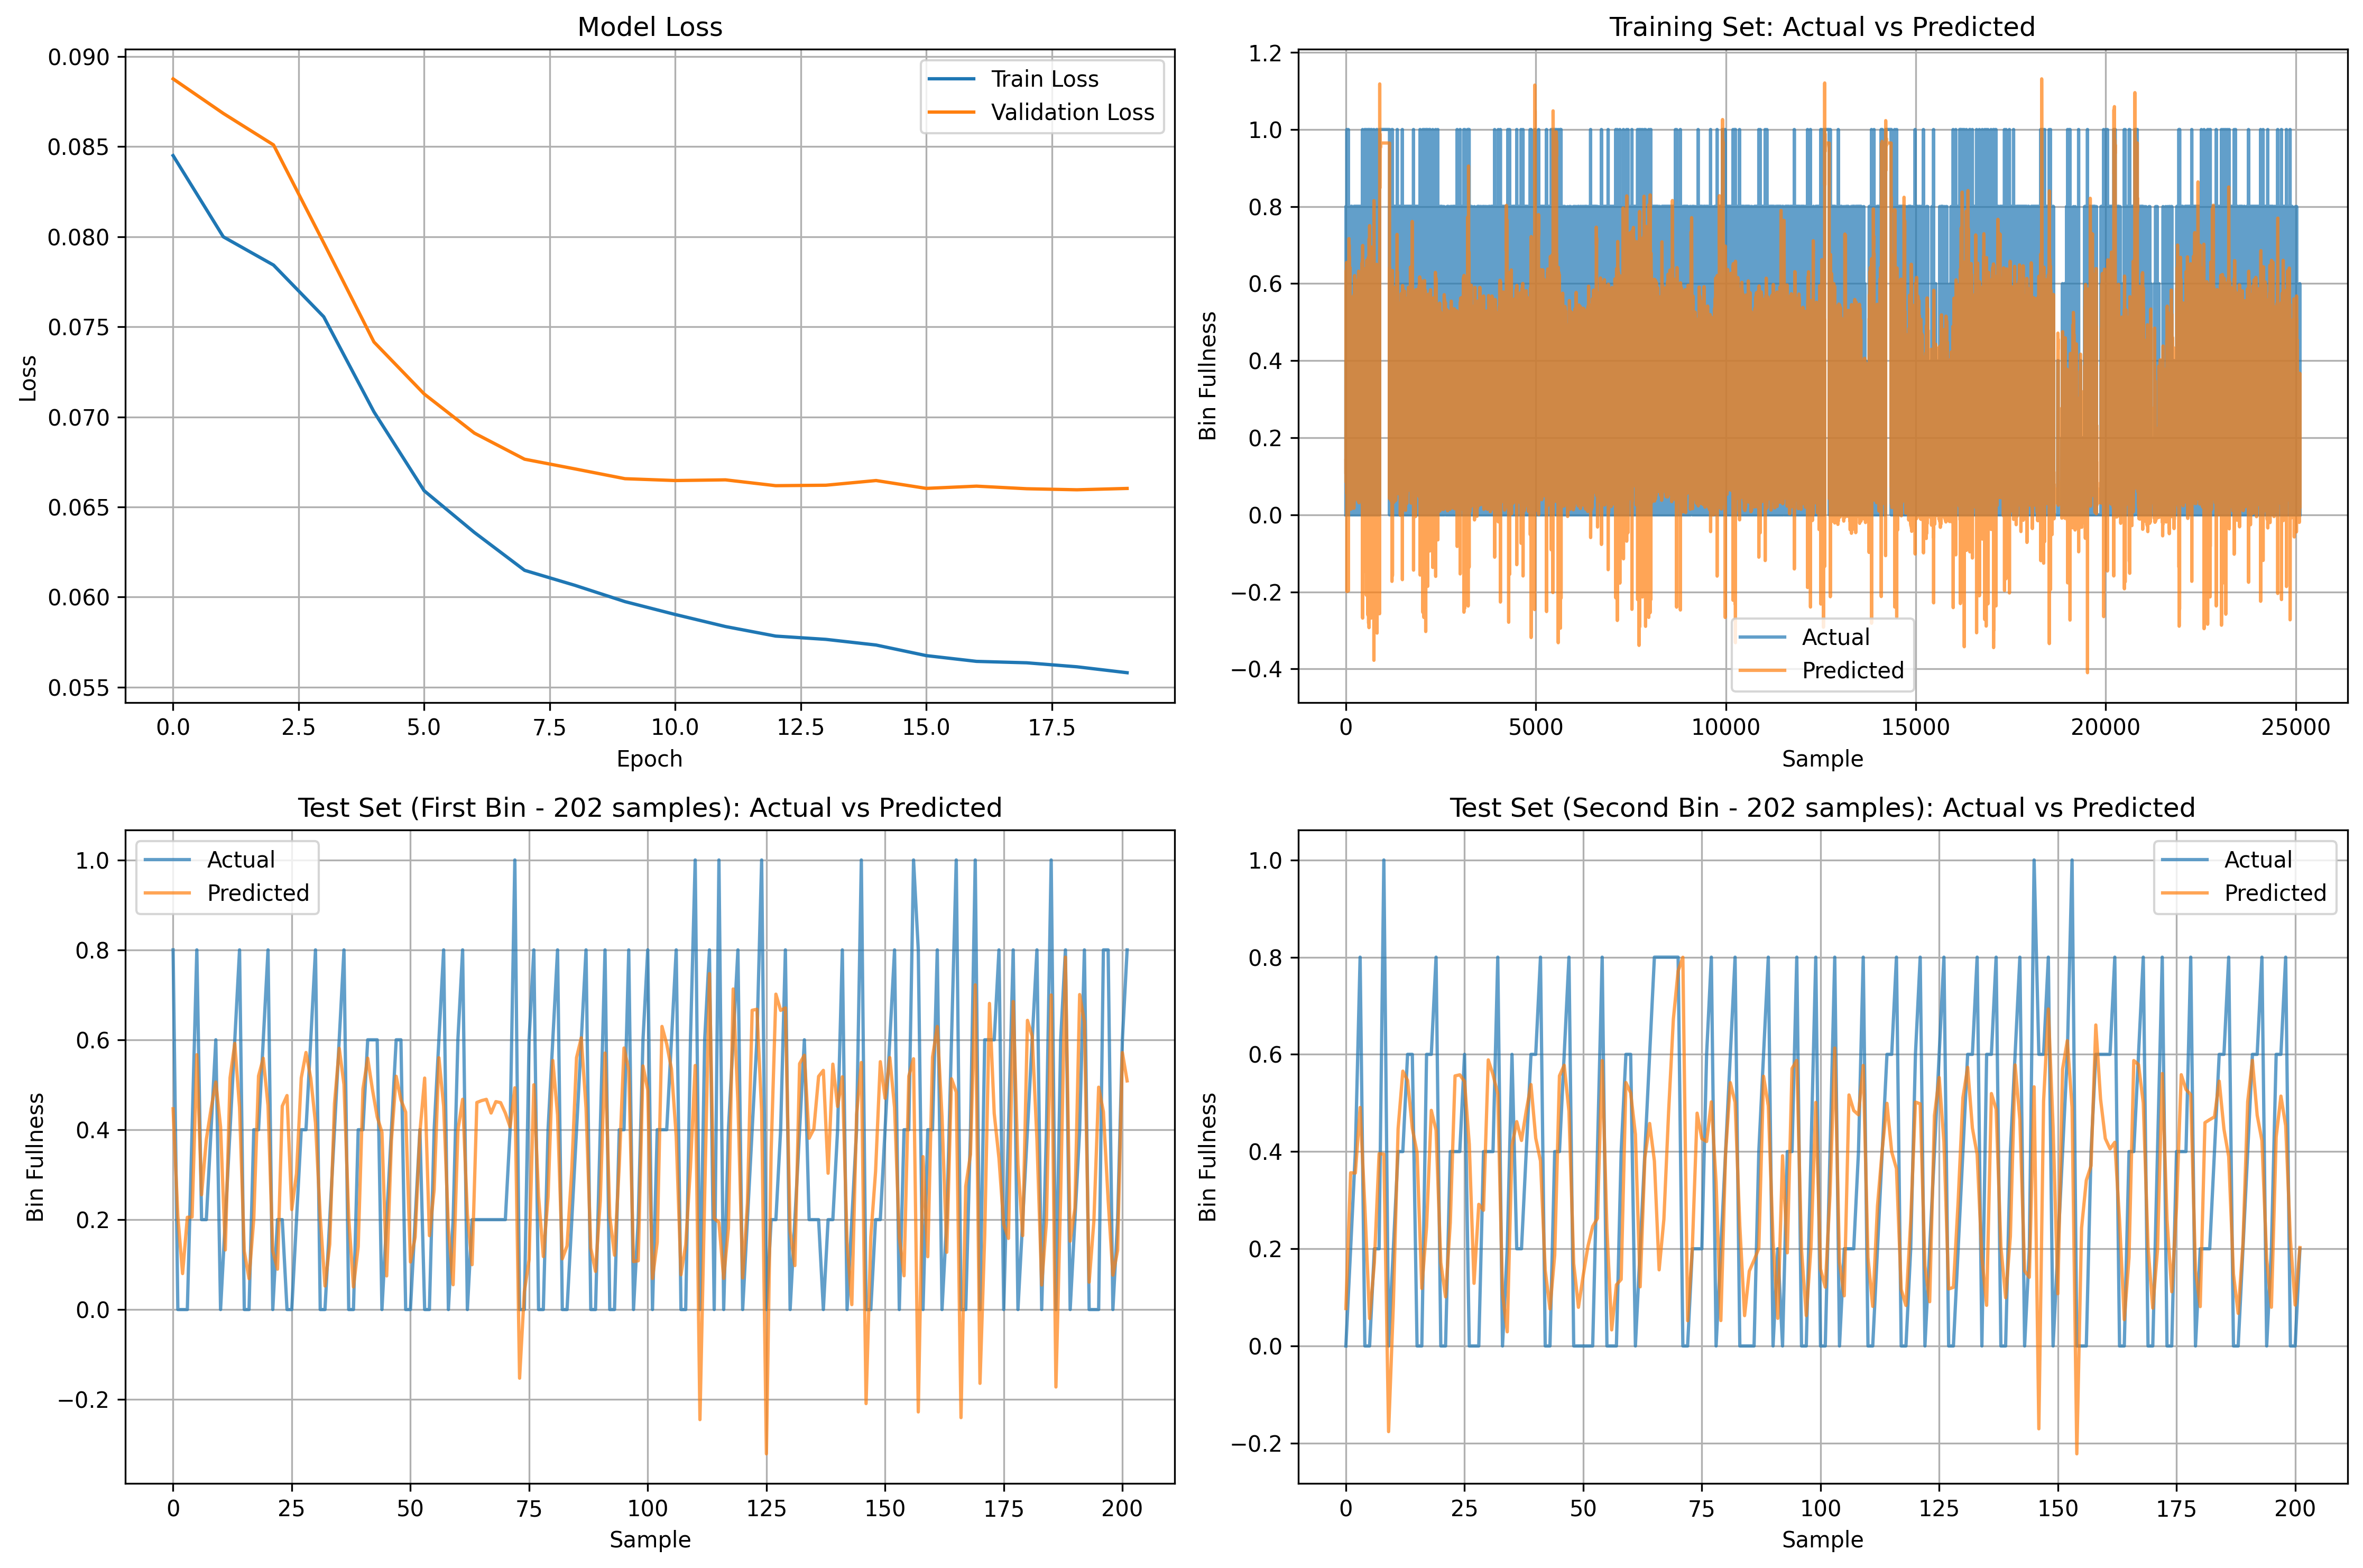
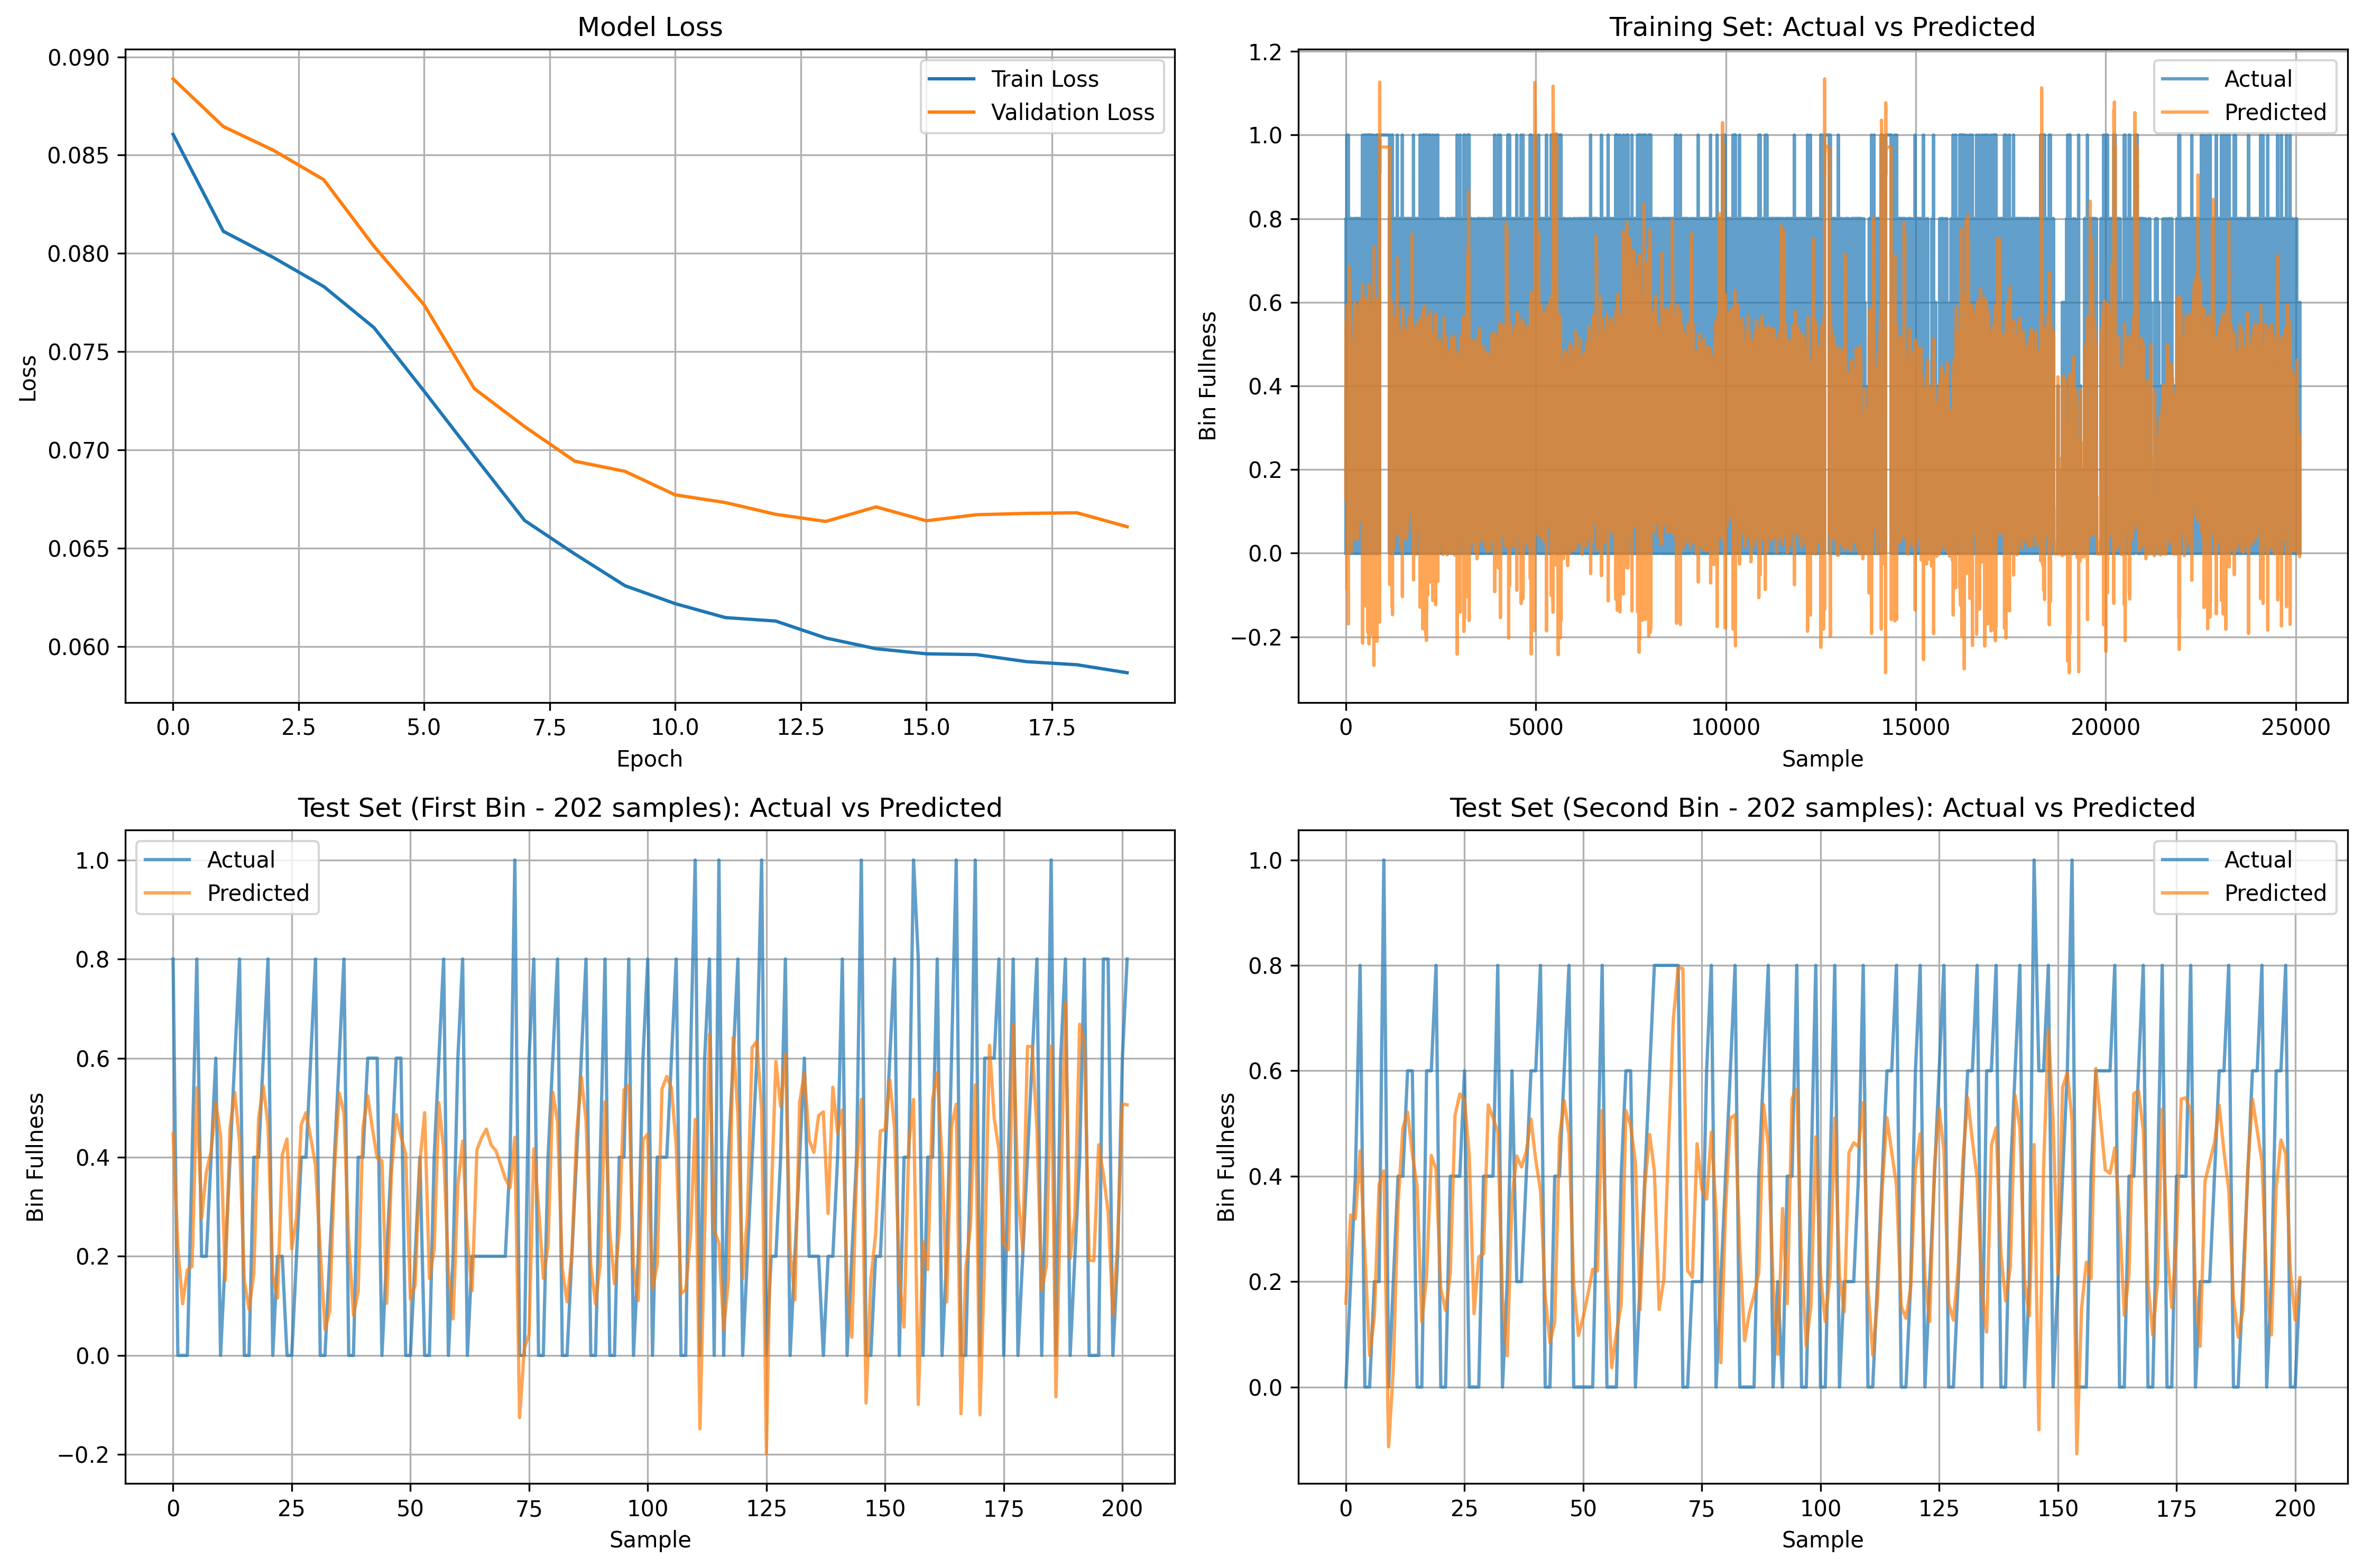
GRU model Worst than paper

diff --git a/code/dataTreatment/jakobCode.py b/code/dataTreatment/jakobCode.py
@@ -1,0 +1,39 @@
+import json
+import time
+import requests
+import pandas as pd
+from datetime import datetime
+from typing import Dict, Tuple
+
+path = 'data/wyndham_smartbin_filllevel.json'
+
+# Load
+with open(path, 'r') as f:
+    json_object = json.load(f)
+
+rows = []
+for feature in json_object["features"]:
+    props = feature["properties"]
+    coords = feature["geometry"]["coordinates"]
+    rows.append({
+        "timestamp": props["timestamp"],
+        "fullnessthreshold": props["fullnessThreshold"],
+        "serialnumber": props["serialNumber"],
+        "latestfullness": props["latestFullness"],
+        "coordinates": coords
+    })
+
+df = pd.DataFrame(rows)
+print(df.head())
+
+
+
+timestamp_counts = df['timestamp'].value_counts()
+print("Unique timestamps and their counts:")
+print(timestamp_counts.head(10))
+
+#Uncomment if you want to check how many bins there are and how many samples are present
+print("Unique Serialnumbers:")
+print(df["serialnumber"].unique())
+print(df["serialnumber"].value_counts())
+len(df["serialnumber"].unique())

diff --git a/code/GRU/main.py b/code/GRU/main.py
@@ -4,7 +4,7 @@
             replicating the results from the paper:
             "A Machine Learning Approach to Predicting Waste Bin Fill Levels
                 for Smart Waste Management Systems"
-
+            by A. K. Sanga et al., Sensors 2021.
 """
 
 import numpy as np

diff --git a/code/GRU/modelBuilding.py b/code/GRU/modelBuilding.py
@@ -46,7 +46,7 @@ def build_gru_model(n_steps: int, n_features: int = 1) -> keras.Model:
             ),
             # Dropout layer for regularization
             # Paper may have used dropout rate between 0.2-0.5
-            layers.Dropout(0.2, name="dropout"),
+            layers.Dropout(0.4, name="dropout"),
             # Dense output layer (1 unit for regression)
             # 101 parameters: 100 weights + 1 bias
             layers.Dense(1, name="dense"),

diff --git a/code/GRU/README.md b/code/GRU/README.md
@@ -26,10 +26,10 @@ Output (predicted fill level)
 
 ### GRU Equations (from paper)
 The GRU implementation uses the following equations:
-- **Update gate**: z_t = σ(W_z·x_t + V_z·h_{t-1} + b_z)
-- **Reset gate**: r_t = σ(W_r·x_t + V_r·h_{t-1} + b_r)
-- **Candidate activation**: h̃_t = tanh(W_c·x_t + V_c·(r_t · h_{t-1}))
-- **Final hidden state**: h_t = z_t · h_{t-1} + (1 - z_t) · h̃_t
+- **Update gate**: $z_t = \sigma(W_z·x_t + V_z·h_{t-1} + b_z)$
+- **Reset gate**: $r_t = \sigma(W_r·x_t + V_r·h_{t-1} + b_r)$
+- **Candidate activation**: $\tilde{h}_t = \tanh(W_c·x_t + V_c·(r_t · h_{t-1}))$
+- **Final hidden state**: $h_t = z_t · h_{t-1} + (1 - z_t) · \tilde{h}_t$
 
 ## Methodology
 
@@ -85,8 +85,6 @@ This will:
    - Plots: `gru_training_results.png`
 
 ### Model Outputs
-
-After training, you'll find:
 
 **Model Files:**
 - `gru_individual_bin_model.keras` - Trained model in Keras format